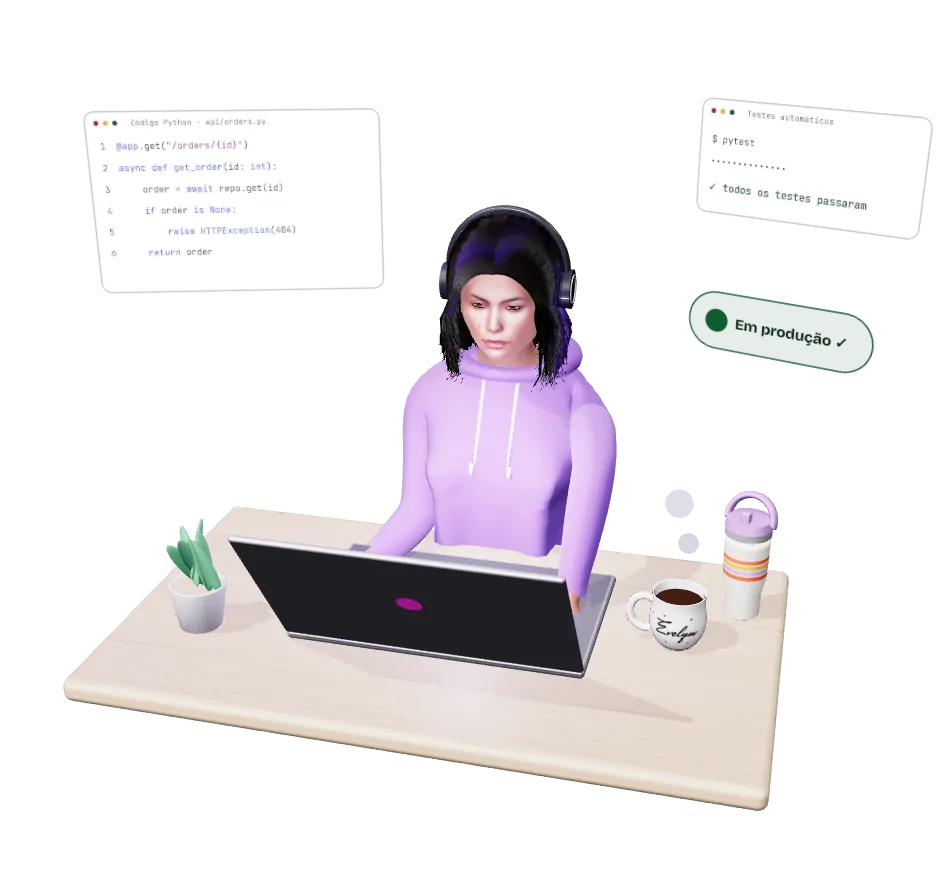
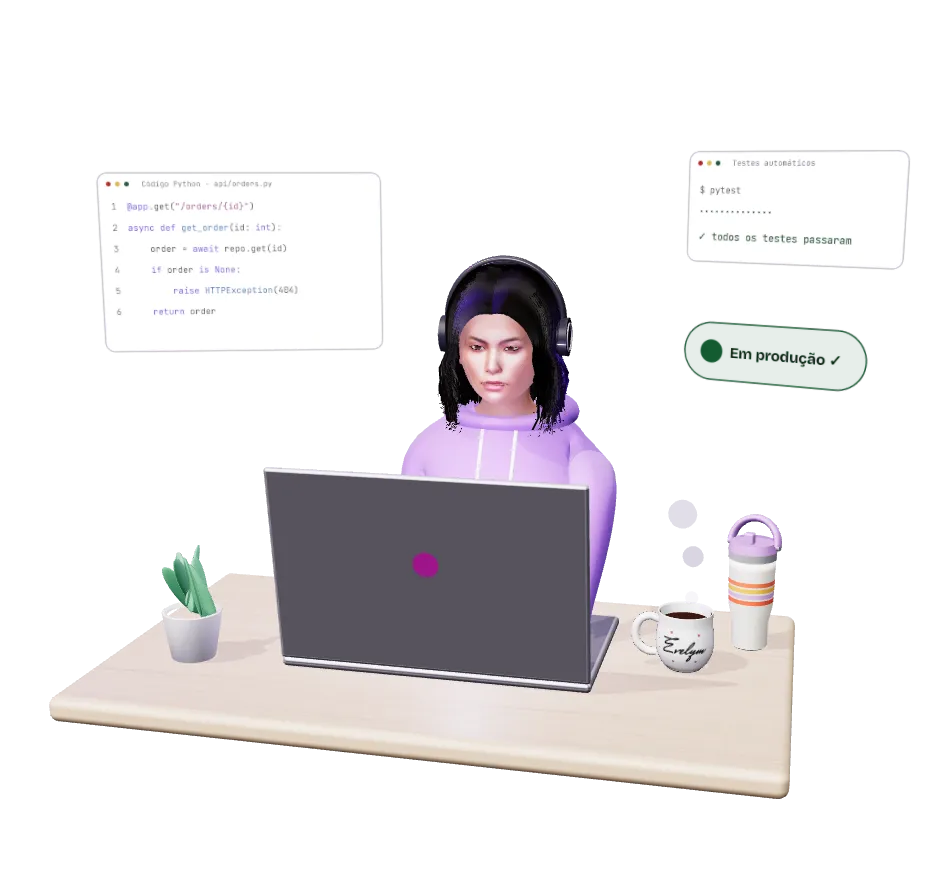
fix: volta a câmera original e põe a tampa em pé, cobrindo os braços

diff --git a/components/scene/hero-scene.ts b/components/scene/hero-scene.ts
@@ -387,9 +387,9 @@ export async function createHeroScene(
   );
   const lid = new Group();
   lid.position.set(0, 0.032, 0.115);
-  // Tampa bem aberta (cerca de 125°): com a personagem modelada, a tampa mais em pé escondia antebraços e mãos, e os
-  // braços pareciam tocos (2026-11-23). Assim as mãos aparecem no teclado.
-  lid.rotation.x = 0.62;
+  // Tampa em pé, de propósito: ela cobre o peito e os braços, e acima dela aparecem só a cabeça, o capuz e o alto dos
+  // ombros (decisão da dona em 2026-11-23, depois de ver os braços inteiros).
+  lid.rotation.x = 0.16;
   root.add(lid);
   mesh(new RoundedBoxGeometry(0.98, 0.64, 0.022, 4, 0.012), mAluminum, lid).position.y = 0.32;
   const bezel = mesh(new PlaneGeometry(0.95, 0.61), mBezel, lid, false);
@@ -896,7 +896,7 @@ export async function createHeroScene(
   }
 
   /* ── Quadro: história, mãos digitando, cabeça, vapor e câmera ── */
-  const lookAt = new Vector3(0, 0.55, -0.42);
+  const lookAt = new Vector3(0, 0.66, -0.42);
   const ptr = { x: 0, y: 0, tx: 0, ty: 0 };
   let progress = 0;
 
@@ -948,8 +948,7 @@ export async function createHeroScene(
     terminal.m.position.y = 1.38 + Math.sin(t * 0.6 + 1.5) * 0.025;
     badge.m.position.y = 0.92 + Math.sin(t * 0.6 + 3) * 0.02;
     // câmera em três quartos, enquadrando tudo (nada cortado), com parallax leve do ponteiro e da rolagem
-    // câmera mais alta que a original (1,55): olha por cima da tampa e mostra os braços chegando ao teclado
-    camera.position.set(1.05 + ptr.x * 0.3, 2.3 - ptr.y * 0.2, 3.6 - progress * 0.3);
+    camera.position.set(1.05 + ptr.x * 0.3, 1.55 - ptr.y * 0.2, 3.85 - progress * 0.3);
     camera.lookAt(lookAt);
   }
 

diff --git a/openspec/changes/personagem-3d-modelada/tasks.md b/openspec/changes/personagem-3d-modelada/tasks.md
@@ -68,6 +68,8 @@ Termina com: a cena no navegador local com a personagem nova digitando, piscando
 > - braços (2026-11-23, decisão da dona): a tampa do notebook escondia antebraços e mãos, e os braços pareciam tocos. A
 >   tampa abriu mais (cerca de 125°), a câmera subiu (1,55 → 2,3) e os cotovelos abriram; o moletom cai reto na frente
 >   do tronco e não marca o corpo; os cordões descem por cima do tecido;
+> - enquadramento final (2026-11-23, decisão da dona): a cena inteira, com a câmera de volta ao ângulo original, e a
+>   tampa do notebook em pé, cobrindo o peito e os braços; acima dela aparecem só a cabeça, o capuz e o alto dos ombros;
 > - falta: sorriso (2.6), o carregamento em paralelo do modelo (4.2) e o resto do bloco 5.
 
 ## 5. Desempenho e fechamento
